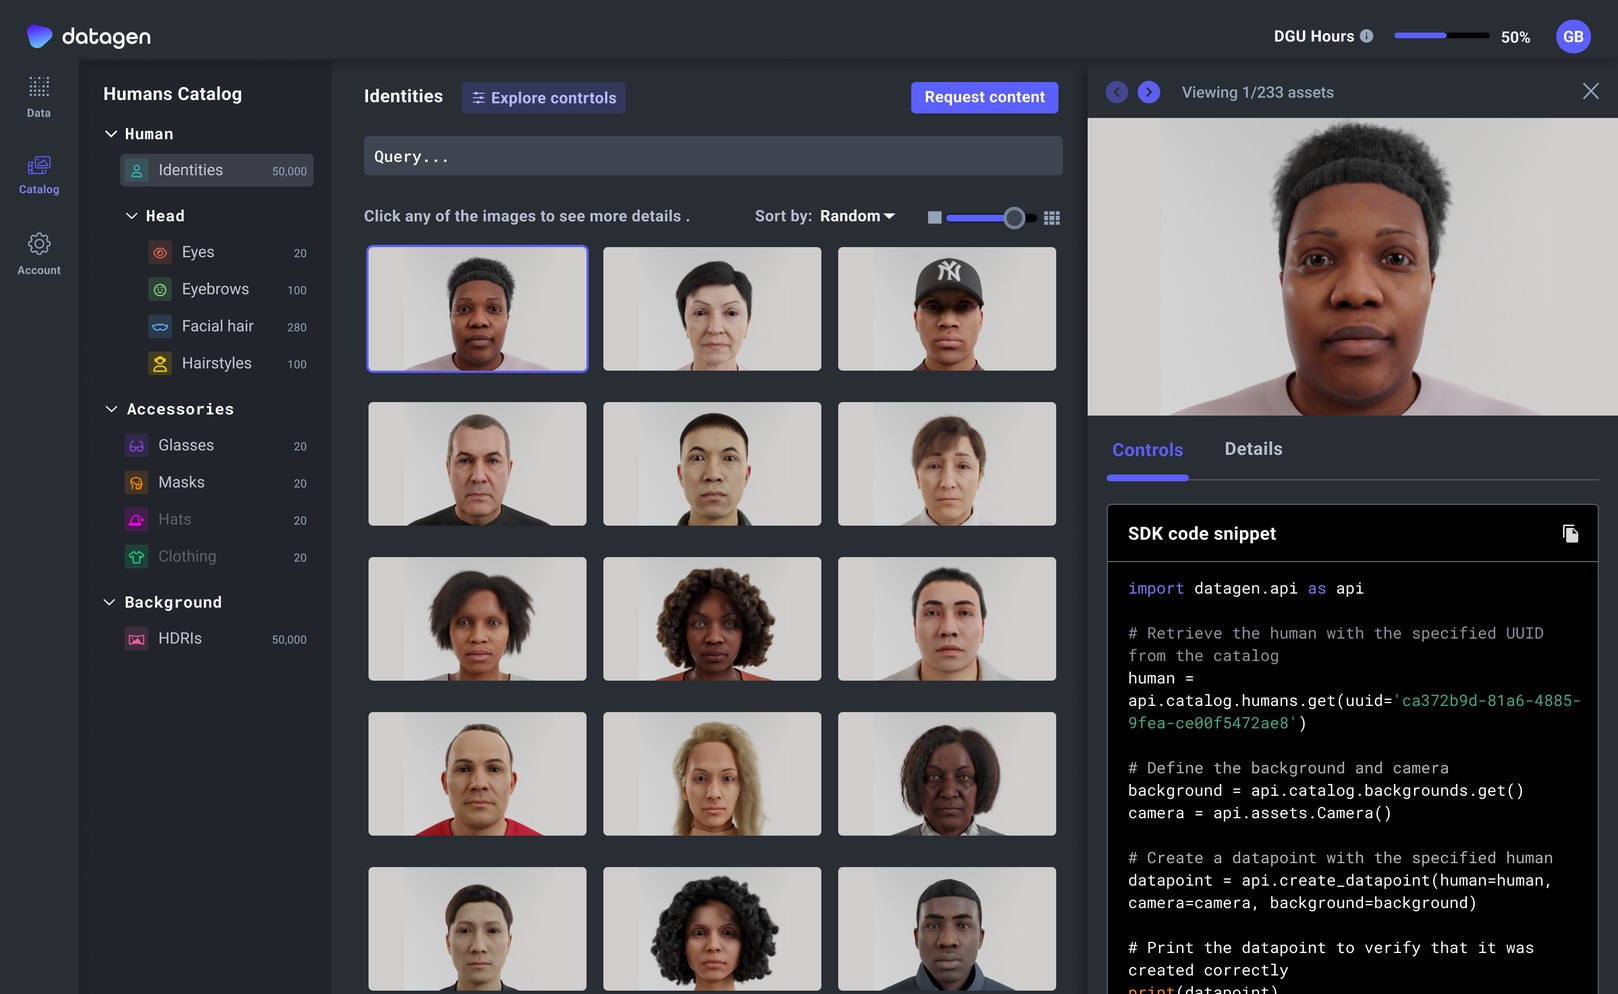
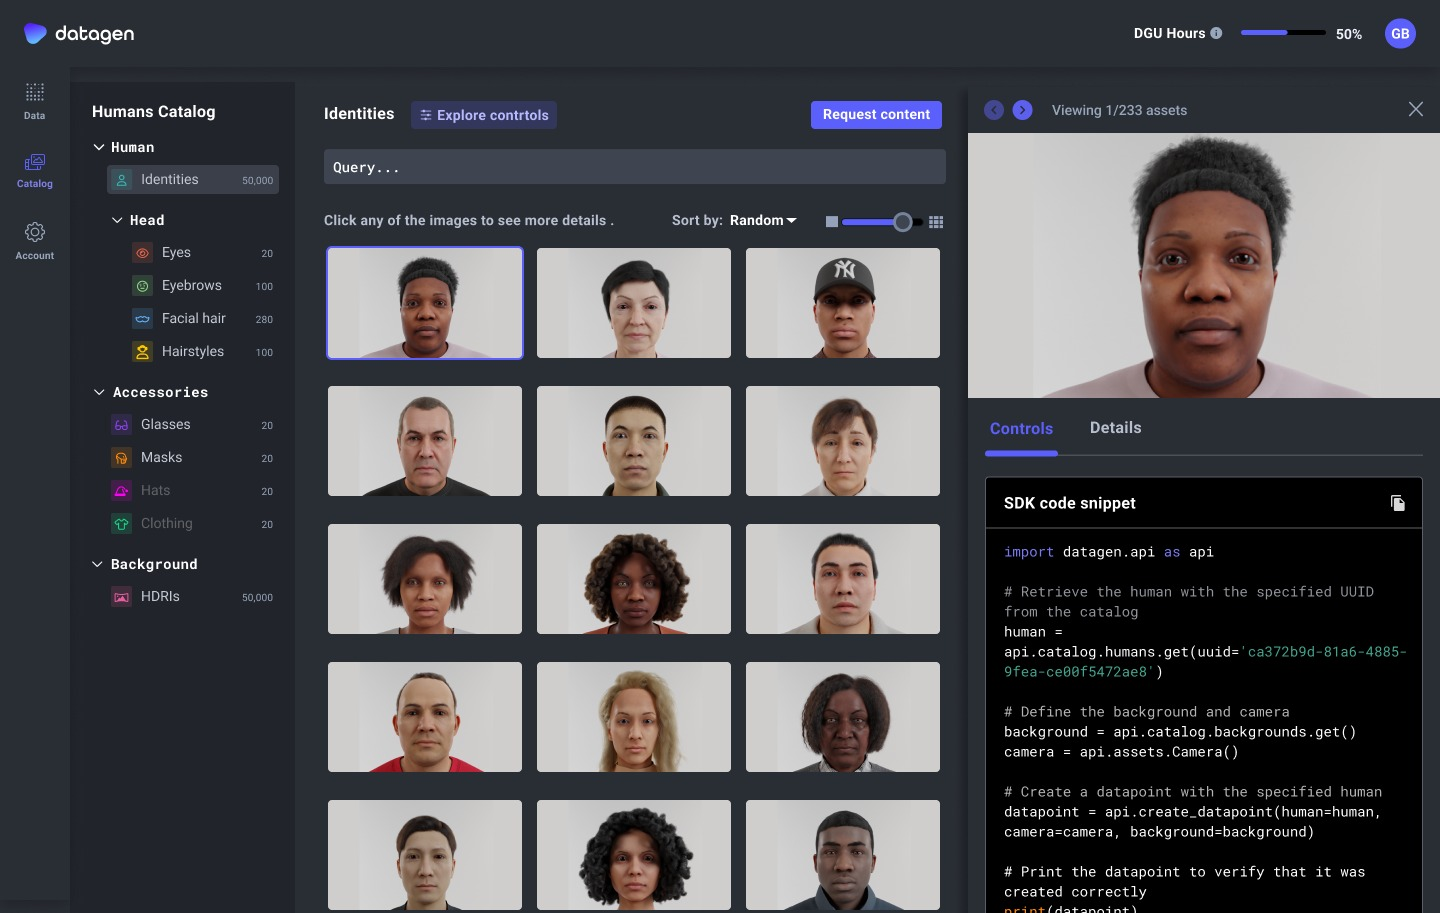
Datagen: use the updated catalog screenshot (#9)
Claude-Session: https://claude.ai/code/session_01Sb69NSC57WrQtPQq1EtEf8

diff --git a/datagen/index.html b/datagen/index.html
@@ -139,7 +139,7 @@
         <span class="tag">04.2</span><span class="muted small">Asset generation</span>
         <h3>See what you’ll get before you ask for it</h3>
         <div class="grid-2 side" style="align-items:start">
-          <figure style="margin:0"><div class="shot window"><img src="../img/datagen/assets.jpg?v=3" width="1618" height="994" loading="lazy" alt="Humans catalog: a tree of attributes on the left (identities, eyes, eyebrows, facial hair, hairstyles, glasses, masks, hats, clothing, backgrounds), a grid of synthetic faces in the middle, and on the right a large preview with an SDK code snippet underneath."></div></figure>
+          <figure style="margin:0"><div class="shot window"><img src="../img/datagen/assets.jpg?v=4" width="1440" height="913" loading="lazy" alt="Humans catalog: a tree of attributes on the left (identities, eyes, eyebrows, facial hair, hairstyles, glasses, masks, hats, clothing, backgrounds), a grid of synthetic faces in the middle, and on the right a large preview with an SDK code snippet underneath."></div></figure>
           <ul class="notes">
             <li><b>Catalog navigation</b>Every attribute you can change (head, accessories, background) in one tree, with explore controls that show what each change does.</li>
             <li><b>Query with inline guidance</b>Helps people narrow the search to the exact assets they want to generate.</li>
